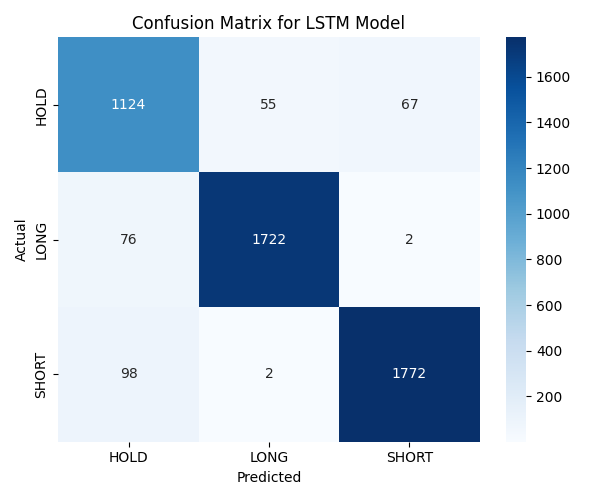
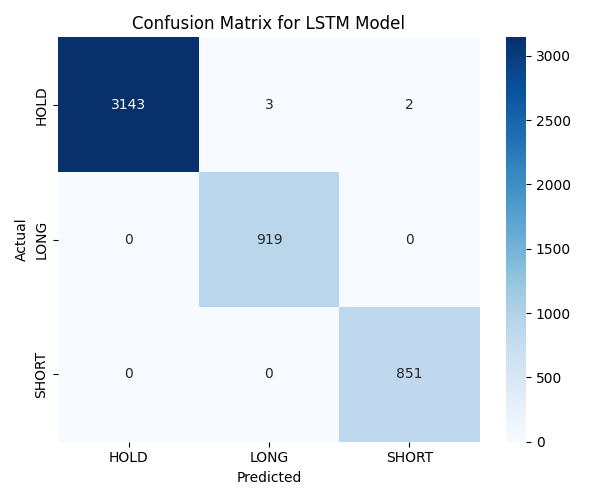
modify for more accuracy

diff --git a/binance_auto_trader/train_lstm_keras.py b/binance_auto_trader/train_lstm_keras.py
@@ -194,55 +194,50 @@ if __name__ == "__main__":
         close_prices = df[f"ema_20_{INTERVALS[0]}"].values
         close_prices = close_prices[~np.isnan(future_return)][window:]
 
-        capital = 1000
+        capital = 60
+        TP = 0.01   # 1% Take Profit
+        SL = 0.005  # 0.5% Stop Loss
+        profits = []
+
         for i in range(len(y_class) - 3):
             pred = y_class[i]
-            price_now = close_prices[i]
-            price_next = close_prices[i + 3]
+            price_entry = close_prices[i]
 
             if pred == 1:  # LONG
-                change = (price_next - price_now) / price_now
-                capital *= (1 + change)
+                for j in range(1, 4):
+                    price_now = close_prices[i + j]
+                    change = (price_now - price_entry) / price_entry
+                    if change >= TP:
+                        capital *= (1 + TP)
+                        profits.append(TP)
+                        break
+                    elif change <= -SL:
+                        capital *= (1 - SL)
+                        profits.append(-SL)
+                        break
+                else:
+                    change = (close_prices[i + 3] - price_entry) / price_entry
+                    capital *= (1 + change)
+                    profits.append(change)
+
             elif pred == 2:  # SHORT
-                change = (price_now - price_next) / price_now
-                capital *= (1 + change)
+                for j in range(1, 4):
+                    price_now = close_prices[i + j]
+                    change = (price_entry - price_now) / price_entry
+                    if change >= TP:
+                        capital *= (1 + TP)
+                        profits.append(TP)
+                        break
+                    elif change <= -SL:
+                        capital *= (1 - SL)
+                        profits.append(-SL)
+                        break
+                else:
+                    change = (price_entry - close_prices[i + 3]) / price_entry
+                    capital *= (1 + change)
+                    profits.append(change)
 
-        profit = capital - 1000
-        print(f"{name} | Val Accuracy: {val_acc:.4f} | Profit: ${profit:.2f}")
-
-        results.append({
-            "name": name,
-            "model": model,
-            "val_acc": val_acc,
-            "profit": profit,
-            "history": history
-        })
-
-    # Normalize & compute final score
-    min_profit = min(r["profit"] for r in results)
-    max_profit = max(r["profit"] for r in results)
-
-    def normalize_profit(p):
-        return (p - min_profit) / (max_profit - min_profit) if max_profit > min_profit else 0.0
-
-    acc_weight = 0.95  # 🎯 bạn có thể đổi sang 0.6, 0.3, v.v.
-
-    for r in results:
-        norm_profit = normalize_profit(r["profit"])
-        r["combined_score"] = r["val_acc"] * acc_weight + norm_profit * (1 - acc_weight)
-
-    best_result = max(results, key=lambda x: x["combined_score"])
-
-    best_model = best_result["model"]
-    best_name = best_result["name"]
-    best_profit = best_result["profit"]
-    best_score = best_result["combined_score"]
-    best_history = best_result["history"]
-
-    best_model.save('lstm_model.keras')
-    joblib.dump((X_seq, y_seq, close_prices), "lstm_data.pkl")
-
-    with open("best_model_name.txt", "w") as f:
-        f.write(best_name)
-
-    print(f"✅ Best model: {best_name} | Profit: ${best_profit:.2f} | Combined Score: {best_score:.4f}")
+        profit = capital - 60
+        avg_trade = np.mean(profits) * 100 if profits else 0
+        std_trade = np.std(profits) * 100 if profits else 0
+        print(f"{name} | Val Accuracy: {val_acc:.4f} | Profit: ${profit:.2f} | Avg Trade: {avg_trade:.3f}% | Std: {std_trade:.3f}%")

diff --git a/binance_auto_trader/run.py b/binance_auto_trader/run.py
@@ -27,15 +27,12 @@ while True:
         df = fetch_features_multi_timeframe()
         scaled_input = preprocess_for_lstm(df)
 
-        # === LẤY GIÁ TRỊ PHỤC VỤ TP/SL ===
         price = df.filter(like='ema_20_').iloc[-1].values[0]
         atr_cols = [col for col in df.columns if "atr" in col]
         avg_atr = df[atr_cols].iloc[-1].mean()
 
-        # === TÍN HIỆU MÔ HÌNH ===
         action, confidence = lstm_based_action(df)
 
-        # === TP / SL TỰ ĐỘNG (dynamic theo thị trường + tín hiệu) ===
         TAKE_PROFIT_RATIO = max(0.02, min(0.1, confidence * 0.04 + avg_atr / price))
         LOSS_CUTOFF_RATIO = min(0.05, max(0.01, (1 - confidence) * 0.04 + avg_atr / price))
 
@@ -46,21 +43,39 @@ while True:
             profit_ratio = pnl / balance if balance else 0
 
             print(f"[INFO] Current position: {current_position} | PnL: {pnl:.2f} | Balance: {balance:.2f} | Profit Ratio: {profit_ratio*100:.2f}%")
-            # Kiểm tra TP/SL
+
+            if not hasattr(close_position, "peak_profit"):
+                close_position.peak_profit = profit_ratio
+            if profit_ratio > close_position.peak_profit:
+                close_position.peak_profit = profit_ratio
+
+            trailing_trigger = 0.03
+            trailing_drawdown = 0.5
+
+            if close_position.peak_profit >= trailing_trigger:
+                stop_threshold = close_position.peak_profit * (1 - trailing_drawdown)
+                if profit_ratio <= stop_threshold:
+                    print(f"[TRAILING-STOP] Profit dropped from {close_position.peak_profit*100:.2f}% to {profit_ratio*100:.2f}% → Closing")
+                    close_position(SYMBOL, current_position)
+                    close_position.peak_profit = 0
+                    time.sleep(60)
+                    continue
+
             if profit_ratio >= TAKE_PROFIT_RATIO:
                 close_position(SYMBOL, current_position)
+                close_position.peak_profit = 0
                 print(f"[AUTO-PROFIT] Closed {current_position} with profit {profit_ratio*100:.2f}% (TP {TAKE_PROFIT_RATIO*100:.2f}%)")
                 time.sleep(60)
                 continue
             elif profit_ratio <= -LOSS_CUTOFF_RATIO:
                 close_position(SYMBOL, current_position)
+                close_position.peak_profit = 0
                 print(f"[AUTO-STOP] Closed {current_position} with loss {profit_ratio*100:.2f}% (SL {LOSS_CUTOFF_RATIO*100:.2f}%)")
                 time.sleep(60)
                 continue
             else:
                 print(f"[INFO] Profit {profit_ratio*100:.2f}% (TP {TAKE_PROFIT_RATIO*100:.2f}%, SL {LOSS_CUTOFF_RATIO*100:.2f}%) → Hold")
 
-        # === XỬ LÝ GIAO DỊCH MỚI ===
         print(f"[INFO] Action: {action} | Confidence: {confidence:.2f} | Price: {price:.4f}")
         if action != 'HOLD':
             balance = get_balance()

diff --git a/binance_auto_trader/feature_pipeline.py b/binance_auto_trader/feature_pipeline.py
@@ -10,7 +10,7 @@ from trader import safe_api_call
 
 client = Client(API_KEY, API_SECRET)
 
-def fetch_full_klines(symbol, interval, total_limit=5000):
+def fetch_full_klines(symbol, interval, total_limit=50000):
     all_klines = []
     last_time = None
 
@@ -58,9 +58,9 @@ def fetch_features_multi_timeframe():
     all_dfs = []
 
     for interval in INTERVALS:
-        klines = fetch_full_klines(SYMBOL, interval, total_limit=5000)
+        klines = fetch_full_klines(SYMBOL, interval, total_limit=50000)
 
-        if not klines or len(klines) < 100:
+        if not klines or len(klines) < 1000:
             print(f"[ERROR] Klines for {interval} is too short or empty.")
             continue
 

diff --git a/binance_auto_trader/config.py b/binance_auto_trader/config.py
@@ -4,7 +4,7 @@ API_SECRET = "4iRKlKY9OTYNzY85D1Z4CRIQyq82oX5VCnh6htCT3dHtzsZ5OvGrO3rzuETNRmBg"
 SYMBOL = "WIFUSDT"
 INTERVALS = ["5m", "15m", "1h"]  # Multiple timeframes
 DEFAULT_LEVERAGE = 5
-RISK_PERCENT = 1.5  # % số dư
+RISK_PERCENT = 10  # % số dư
 
 MIN_RSI_LONG = 28
 MAX_RSI_SHORT = 72
@@ -31,3 +31,5 @@ KEYWORDS = {
 }
 
 NEWS_URL = "https://newsapi.org/v2/everything"
+TRAINED_MODE_PATH = "lstm_model.keras"
+FINE_TUNE_MODEL_PATH = "fined_tune_model.keras"

diff --git a/binance_auto_trader/backtest_lstm.py b/binance_auto_trader/backtest_lstm.py
@@ -5,9 +5,10 @@ from tensorflow.keras.models import load_model
 import matplotlib.pyplot as plt
 from sklearn.metrics import classification_report, confusion_matrix
 import seaborn as sns
+from config import *
 
 # Load model và dữ liệu đã lưu
-model = load_model("lstm_model.keras")
+model = load_model(FINE_TUNE_MODEL_PATH)
 scaler = joblib.load("scaler.pkl")
 X_seq, y_seq, close_prices = joblib.load("lstm_data.pkl")  # từ lúc training đã lưu
 

diff --git a/binance_auto_trader/strategy_lstm_live.py b/binance_auto_trader/strategy_lstm_live.py
@@ -4,10 +4,10 @@ import pandas as pd
 from tensorflow.keras.models import load_model
 import joblib
 from news_sentiment import analyze_news
-from config import INTERVALS
+from config import *
 
 # Load model and scaler
-model = load_model("lstm_model.keras")
+model = load_model(FINE_TUNE_MODEL_PATH)
 scaler = joblib.load("scaler.pkl")  # optional if saved during training
 
 # Constants
